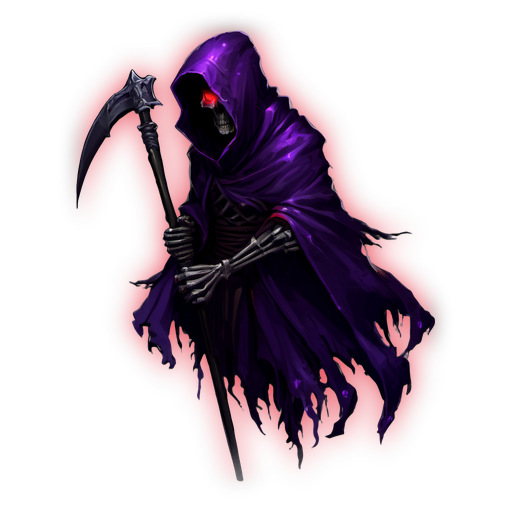
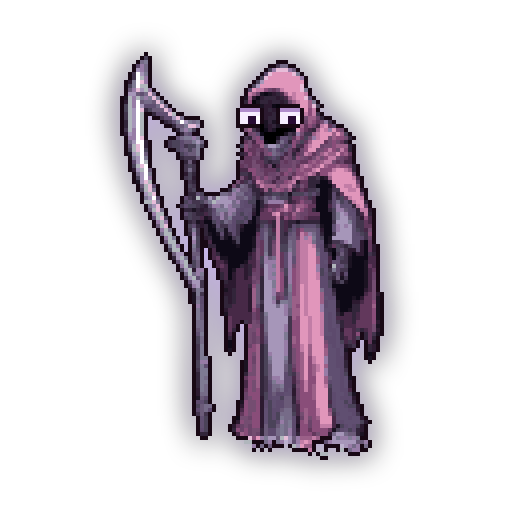
Redraw the reaper as pastel pixel art with bored cartoon eyes
He is pixel art now, one art pixel to a screen pixel: an aloof reaper in a
soft rose robe with a pale scythe, broader in the shoulders, under a pale
lavender glow. His robe ripples by whole pixels while the scythe and hood
stay still.

His eyes are a separate pixel layer in the empty hood: half-lidded and
bored, they blink now and then and glance aside, and shut while he sleeps.
They flip with him. The app and tray icons match.

diff --git a/desktop/renderer/style.css b/desktop/renderer/style.css
@@ -63,8 +63,8 @@ body.is-capturing * { visibility: hidden !important; }
   height: 114px;
   cursor: grab;
   animation: float 3.8s infinite ease-in-out;
-  /* His aura: a red glow around a purple robe. */
-  filter: drop-shadow(0 0 6px rgba(230, 28, 48, 0.85)) drop-shadow(0 8px 14px rgba(150, 8, 24, 0.55));
+  /* A soft pastel aura: pale lavender, with a rose glow beneath. */
+  filter: drop-shadow(0 0 6px rgba(200, 170, 255, 0.9)) drop-shadow(0 8px 12px rgba(255, 170, 200, 0.45));
   transition: filter 0.3s ease;
 }
 
@@ -75,7 +75,7 @@ body.is-capturing * { visibility: hidden !important; }
 .sprite {
   width: 92px;
   height: 114px;
-  background: url('../assets/reaper-idle.webp') 0 0 / 2208px 114px no-repeat;
+  background: url('../assets/reaper-idle.png') 0 0 / 2208px 114px no-repeat;
   animation: reaperIdle 2.4s steps(24) infinite;
   transition: transform 0.3s ease;
   pointer-events: none;
@@ -85,22 +85,49 @@ body.is-capturing * { visibility: hidden !important; }
 @keyframes reaperMove { to { background-position: -1472px 0; } }
 
 .reaper.is-moving .sprite {
-  background-image: url('../assets/reaper-move.webp');
+  background-image: url('../assets/reaper-move.png');
   background-size: 1472px 114px;
   animation: reaperMove 1.1s steps(16) infinite;
 }
 
 .reaper.is-sleeping .sprite { animation-duration: 6s; }
 
+/* His cartoon eyes, a separate layer over the hood: bored, half-lidded,
+   blinking now and then and glancing off to the side. Shut while he sleeps. */
+.sprite { position: relative; image-rendering: pixelated; }
+.eyes {
+  position: absolute;
+  left: 41px;
+  top: 19px;
+  width: 17px;
+  height: 6px;
+  background: url('../assets/eyes.png') 0 0 / 51px 6px no-repeat;
+  image-rendering: pixelated;
+  filter: drop-shadow(0 0 2px rgba(220, 200, 255, 0.9));
+  animation: glance 11s steps(1, end) infinite;
+}
+
+@keyframes glance {
+  0% { background-position: 0 0; }
+  28% { background-position: -34px 0; }
+  29.5% { background-position: 0 0; }
+  52% { background-position: -17px 0; }
+  74% { background-position: 0 0; }
+  88% { background-position: -34px 0; }
+  89.5% { background-position: 0 0; }
+}
+
+.reaper.is-sleeping .eyes { animation: none; background-position: -34px 0; }
+
 .reaper.is-left .sprite { transform: scaleX(-1); }
 
 .reaper.is-moving .body {
   animation-play-state: paused;
-  filter: drop-shadow(0 0 9px rgba(255, 48, 64, 0.95)) drop-shadow(0 0 18px rgba(170, 10, 30, 0.65));
+  filter: drop-shadow(0 0 9px rgba(214, 186, 255, 1)) drop-shadow(0 0 16px rgba(255, 176, 206, 0.6));
 }
 
 .reaper.is-resting .body { animation: kneel 0.55s ease forwards; }
-.reaper.is-sleeping .body { animation: breathe 5s ease-in-out infinite; filter: brightness(0.7) drop-shadow(0 0 4px rgba(200, 24, 40, 0.5)); }
+.reaper.is-sleeping .body { animation: breathe 5s ease-in-out infinite; filter: brightness(0.8) drop-shadow(0 0 4px rgba(200, 170, 255, 0.55)); }
 .reaper.is-hungry .body { filter: drop-shadow(0 0 14px var(--death)) drop-shadow(0 0 4px #fff); animation: hunger 0.4s ease-in-out infinite; }
 .reaper.is-vanished { opacity: 0.22; }
 .reaper.is-vanished .soul { visibility: hidden; }
@@ -529,8 +556,8 @@ body.is-capturing * { visibility: hidden !important; }
   height: 10px;
   margin: -5px 0 0 -5px;
   border-radius: 50%;
-  background: rgba(255, 120, 110, 0.75);
-  box-shadow: 0 0 10px rgba(230, 30, 50, 0.9);
+  background: rgba(226, 206, 255, 0.75);
+  box-shadow: 0 0 10px rgba(200, 170, 255, 0.9);
   animation: wisp 0.7s ease-out forwards;
 }
 
@@ -626,7 +653,7 @@ body.is-capturing * { visibility: hidden !important; }
 
 @media (prefers-reduced-motion: reduce) {
   .body, .reaper.is-sleeping .body, .reaper.is-hungry .body, .zzz, .ring::before, .raven,
-  .sprite, .reaper.is-moving .sprite, .ghost:not(.is-caught) { animation: none !important; }
+  .sprite, .reaper.is-moving .sprite, .eyes, .ghost:not(.is-caught) { animation: none !important; }
   .slash-half { animation: none !important; opacity: 0; }
 }
 

diff --git a/desktop/renderer/index.html b/desktop/renderer/index.html
@@ -18,7 +18,7 @@
         <circle class="sand-left" cx="70" cy="70" r="64" pathLength="100"></circle>
       </svg>
       <div id="huntRing" class="hunt-ring" hidden></div>
-      <div id="sprite" class="sprite" aria-hidden="true"></div>
+      <div id="sprite" class="sprite" aria-hidden="true"><div class="eyes"></div></div>
       <span class="zzz" aria-hidden="true">z<i>z</i><b>z</b></span>
     </div>
     <div class="soul" role="meter" aria-label="Soul" aria-valuemin="0" aria-valuemax="100" aria-valuenow="100">
